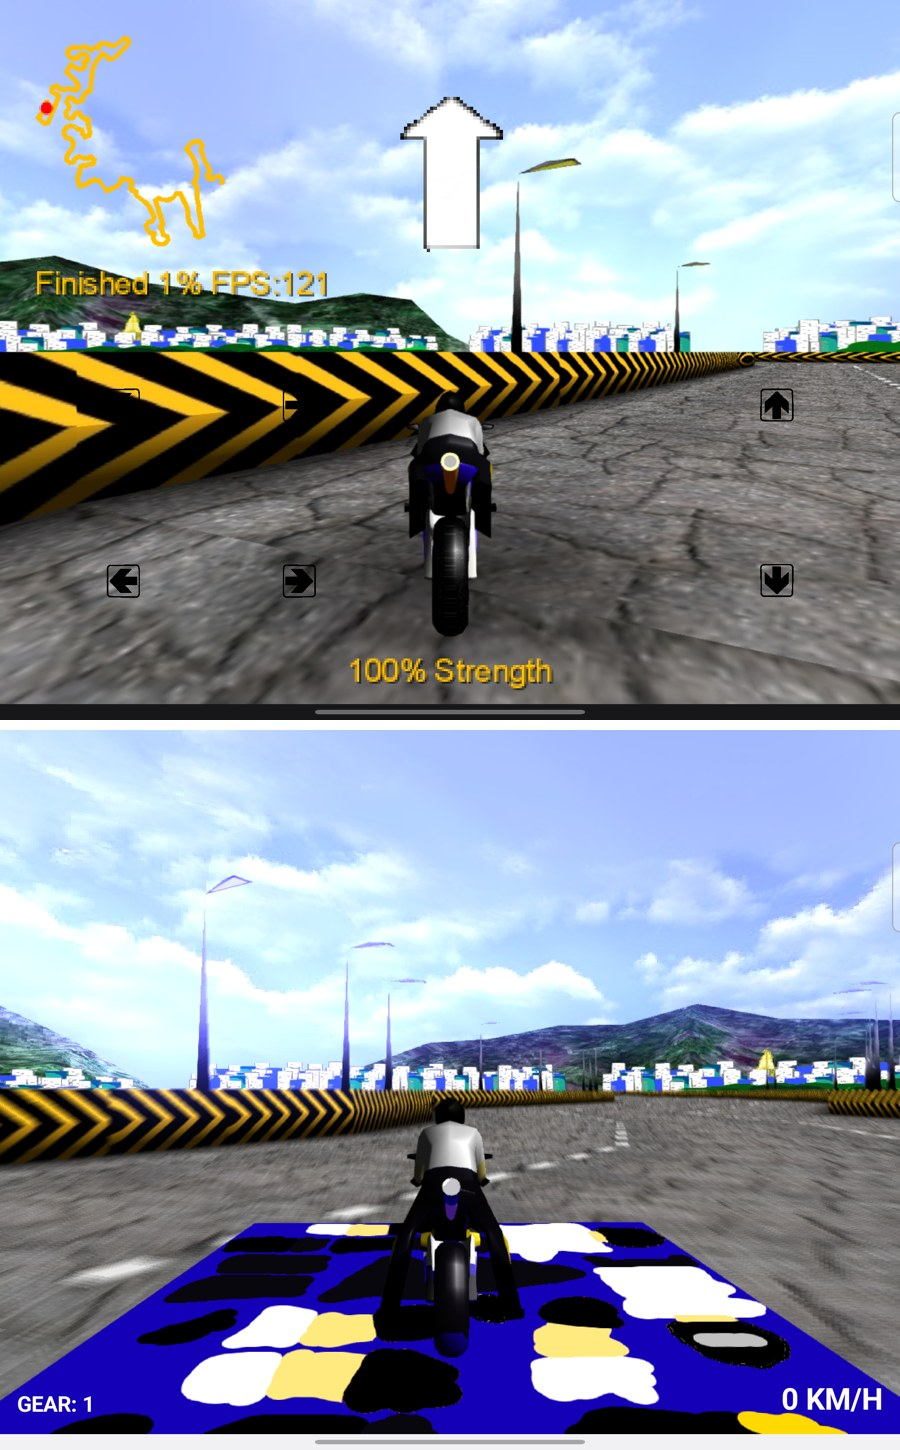
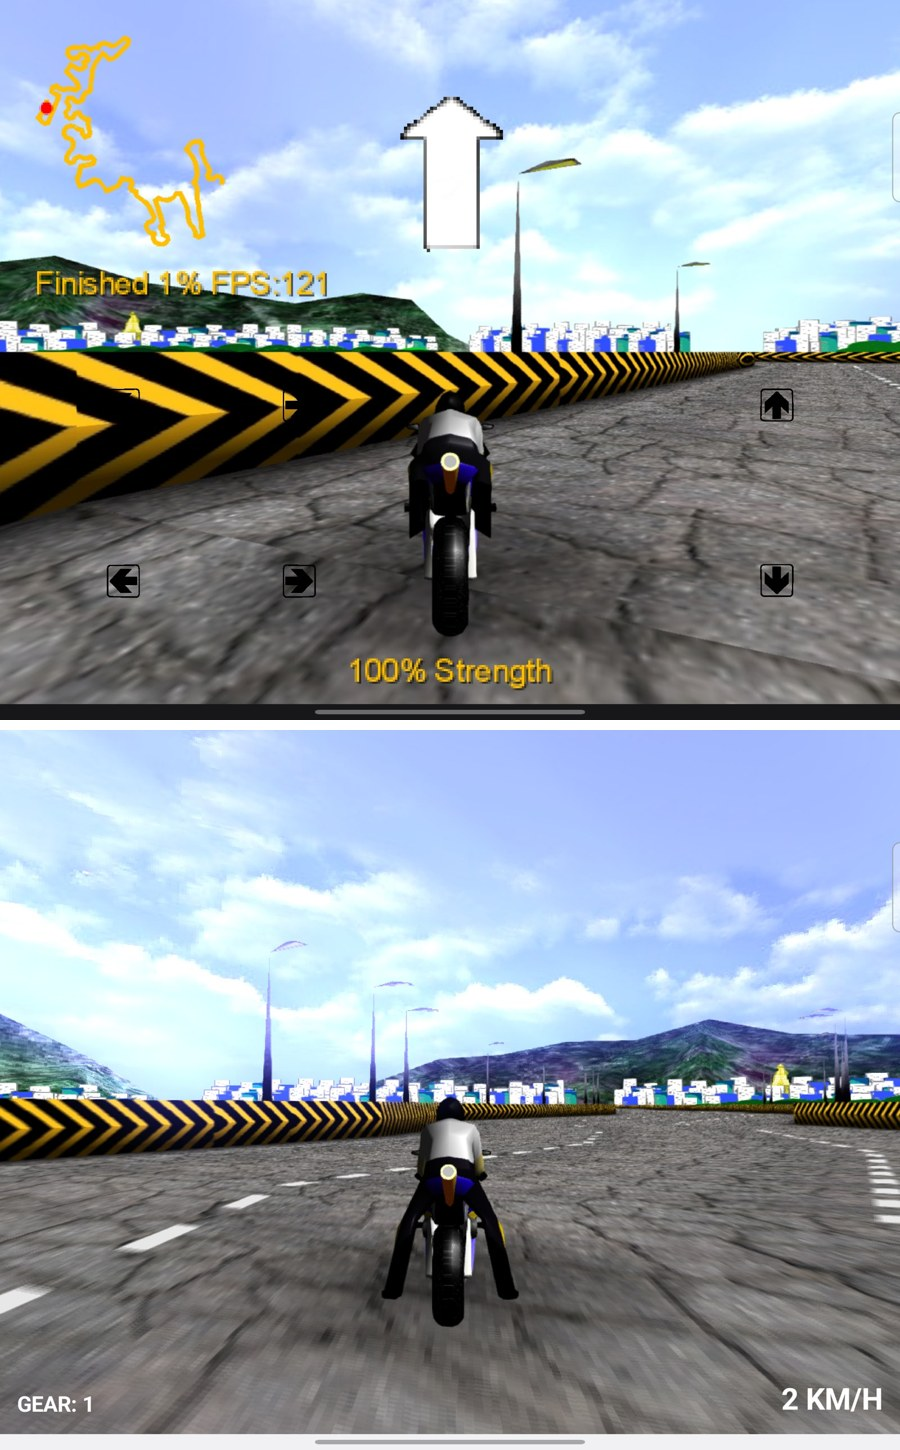
Fix bike shadow drawing a coloured pad (missing texture resolution)
The motorcycle's shadow quad rendered as a blue/yellow/black "cow-print" pad
under the bike — absent from the original game. Its material's diffuseTexture
was never set, so at draw time the batch bound nothing and the quad sampled
whatever texture was last bound (the bike's own bike.png) across its 14x14
plane.

The port's commonMain ObjLoader can't create GL textures, unlike the original's
loadObj(..., true) which resolved them inline, so each model's textures must be
attached after loading. Every other scene object did this; Motorcycle (shadow,
body, wheels) did not — the bike parts only looked right because bike.png
happened to be the bound texture. Add a resolveModelTextures helper and apply it
to all four, so the shadow now samples bikeShadow.png (a soft radial blob) and
blends as a proper shadow, and the bike parts are explicitly textured rather
than relying on bind order.

Verified on desktop and on-device (Galaxy Z Fold 3): the bike now sits on plain
asphalt like the original. Regenerated the GoldenSceneTest golden and refreshed
the device parity references. Audited every scene loadObj — this was the only
model missing texture resolution.

diff --git a/motoman/src/commonMain/kotlin/com/marcowong/motoman/scene/Motorcycle.kt b/motoman/src/commonMain/kotlin/com/marcowong/motoman/scene/Motorcycle.kt
@@ -5,6 +5,7 @@ import com.marcowong.motoman.gl.Gl
 import com.marcowong.motoman.gl.IMeshContext
 import com.marcowong.motoman.gl.MeshOptimized
 import com.marcowong.motoman.gl.ShaderProgram
+import com.marcowong.motoman.model.ModelData
 import com.marcowong.motoman.model.ObjLoader
 import com.marcowong.motoman.model.TextureCache
 import com.marcowong.motoman.track.math.Matrix4
@@ -17,6 +18,23 @@ import kotlin.math.abs
 import com.marcowong.motoman.audio.Audio
 import com.marcowong.motoman.audio.Haptics
 import com.marcowong.motoman.audio.MotorcycleSFX
+
+/**
+ * Attaches each sub-mesh's diffuse texture from its material name.
+ *
+ * The port's `ObjLoader` runs in commonMain and cannot create GL textures, so — unlike the
+ * original engine, whose `loadObj(..., true)` resolved them inline — every model must have its
+ * textures resolved after loading. Every other scene object (Tile, SceneTrack, BackgroundObjs,
+ * Rider, SkyBox) does this; the motorcycle did not, so its shadow quad had no texture and
+ * sampled whatever was last bound (the bike's own texture), drawing a coloured pad instead of
+ * a soft shadow.
+ */
+private fun resolveModelTextures(model: ModelData, textures: TextureCache) {
+    for (sub in model.subMeshes) {
+        val name = sub.material?.diffuseTextureName ?: continue
+        sub.material!!.diffuseTexture = textures.get(name)
+    }
+}
 
 open class Motorcycle(
     val gl: Gl,
@@ -75,6 +93,7 @@ open class Motorcycle(
     init {
         val objLoader = ObjLoader(assets)
         val shadowModel = objLoader.loadObj("data/bikeShadow.obj", true) ?: error("Failed to load bikeShadow.obj")
+        resolveModelTextures(shadowModel, textures)
         shadowModelMeshContext = batch.add(shadowModel)
     }
     
@@ -217,12 +236,15 @@ class MainMotorcycle(
     init {
         val objLoader = ObjLoader(assets)
         val mainBodyModel = objLoader.loadObj("data/bikeBody.obj", true) ?: error("Failed to load bikeBody.obj")
+        resolveModelTextures(mainBodyModel, textures)
         bodyModelMeshContext = batch.add(mainBodyModel)
-        
+
         val mainFrontWheelModel = objLoader.loadObj("data/bikeFrontWheel.obj", true) ?: error("Failed to load bikeFrontWheel.obj")
+        resolveModelTextures(mainFrontWheelModel, textures)
         frontWheelModelMeshContext = batch.add(mainFrontWheelModel)
-        
+
         val mainRearWheelModel = objLoader.loadObj("data/bikeRearWheel.obj", true) ?: error("Failed to load bikeRearWheel.obj")
+        resolveModelTextures(mainRearWheelModel, textures)
         rearWheelModelMeshContext = batch.add(mainRearWheelModel)
         
         val zAdjust = 0.95f